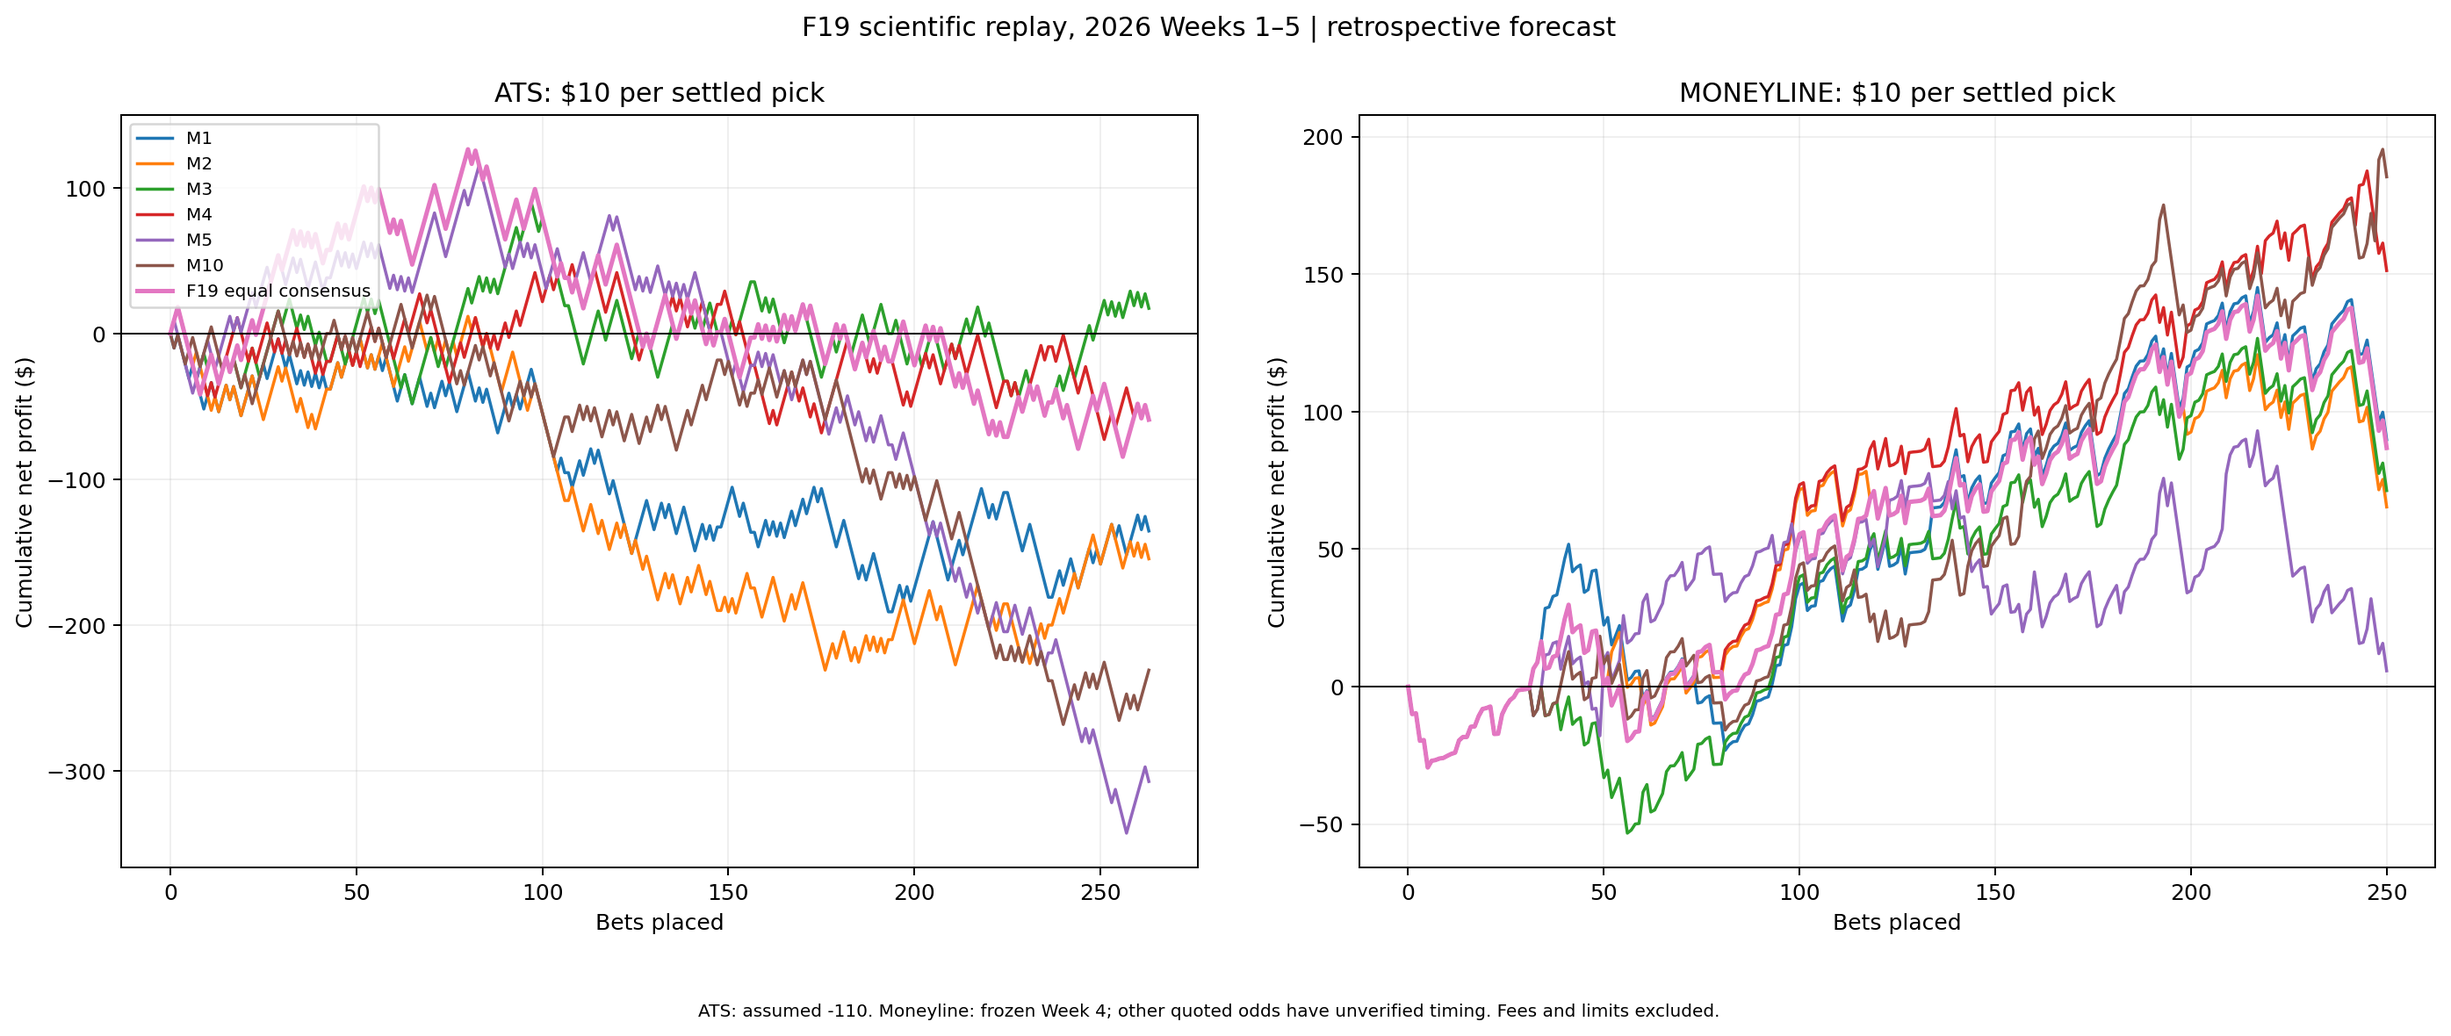
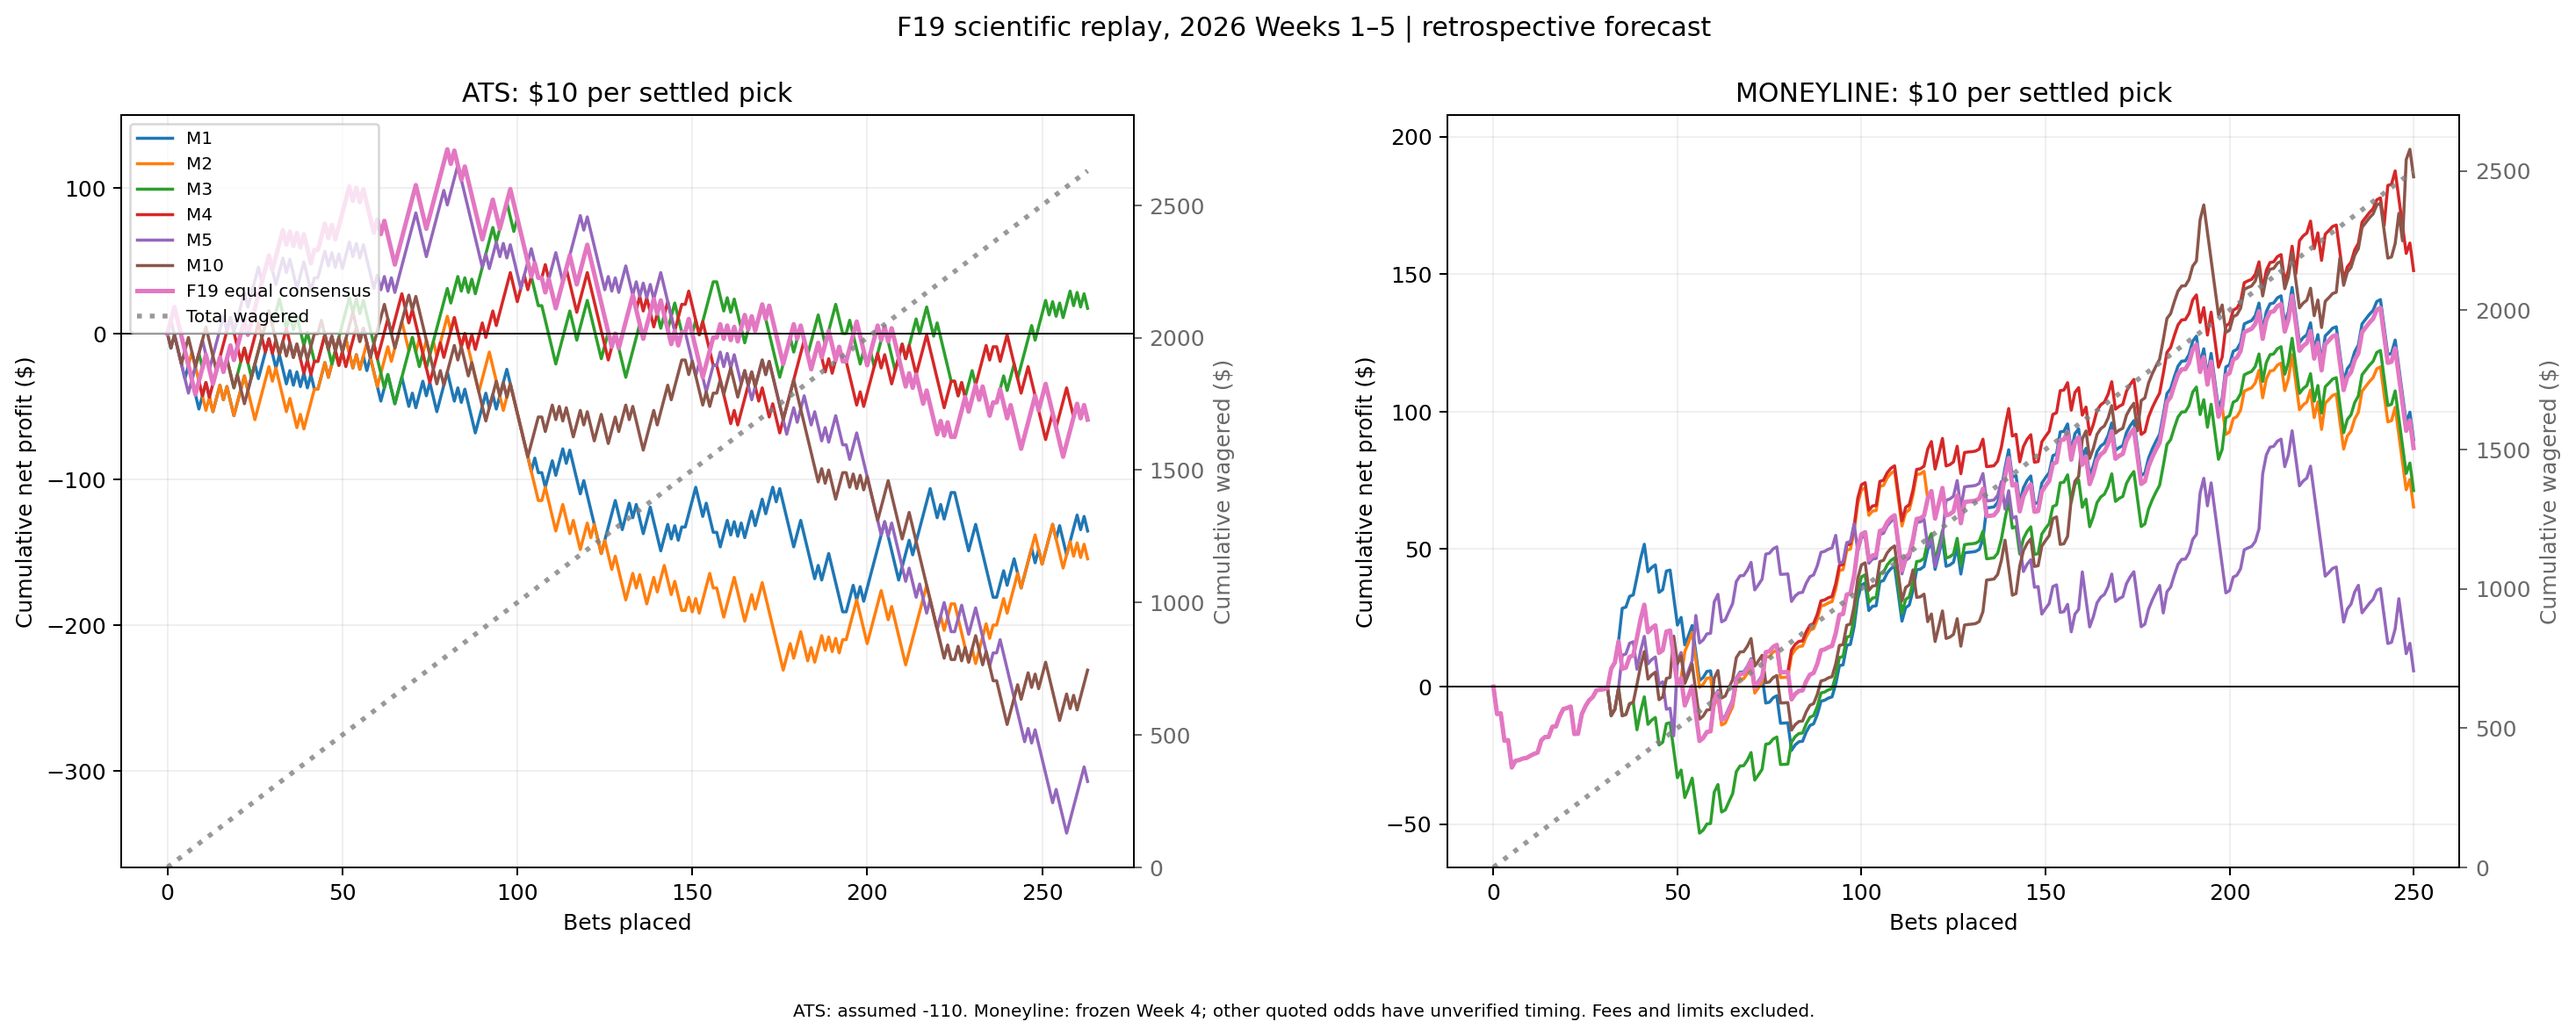
Show cumulative wagered on F19 bankroll figure

diff --git a/scripts/publication/build_2026_f19_flat_stake_study.py b/scripts/publication/build_2026_f19_flat_stake_study.py
@@ -216,8 +216,8 @@ def summarize(frame: pd.DataFrame, by_week: bool = False) -> pd.DataFrame:
 
 
 def plot_bankroll(frame: pd.DataFrame, path: Path) -> None:
-    fig, axes = plt.subplots(1, 2, figsize=(16, 7))
-    fig.subplots_adjust(left=0.07, right=0.985, top=0.87, bottom=0.19, wspace=0.15)
+    fig, axes = plt.subplots(1, 2, figsize=(17, 7))
+    fig.subplots_adjust(left=0.06, right=0.93, top=0.87, bottom=0.19, wspace=0.31)
     colors = plt.get_cmap("tab10").colors
     for axis, (market, scenario) in zip(axes, [("ATS", "all_eligible"), ("moneyline", "quoted_odds")]):
         subset = frame.loc[(frame.market == market) & (frame.scenario == scenario)]
@@ -229,7 +229,22 @@ def plot_bankroll(frame: pd.DataFrame, path: Path) -> None:
         axis.set(title=f"{market.upper()}: $10 per settled pick", xlabel="Bets placed",
                  ylabel="Cumulative net profit ($)")
         axis.grid(alpha=0.2)
-    axes[0].legend(loc="upper left", fontsize=8)
+        # Every strategy stakes the same $10 on the same number of eligible games.
+        # Use a separate scale so cumulative stakes do not compress profit curves.
+        stake_path = subset.loc[subset.strategy.eq(STRATEGIES[0]) & subset.bet_placed]
+        stake_axis = axis.twinx()
+        stake_line, = stake_axis.plot(
+            np.arange(len(stake_path) + 1), np.r_[0, stake_path.cumulative_staked_usd],
+            color="grey", linestyle=":", linewidth=2.2, alpha=0.8,
+            label="Total wagered",
+        )
+        stake_axis.set_ylim(0, float(stake_path.cumulative_staked_usd.iloc[-1]) * 1.08)
+        stake_axis.set_ylabel("Cumulative wagered ($)", color="dimgray")
+        stake_axis.tick_params(axis="y", colors="dimgray")
+        if axis is axes[0]:
+            handles, labels = axis.get_legend_handles_labels()
+            axis.legend(handles + [stake_line], labels + ["Total wagered"],
+                        loc="upper left", fontsize=8)
     fig.suptitle("F19 scientific replay, 2026 Weeks 1–5 | retrospective forecast", y=0.96)
     fig.text(0.5, 0.055, "ATS: assumed -110. Moneyline: frozen Week 4; other quoted odds have unverified timing. Fees and limits excluded.",
              ha="center", fontsize=8)
@@ -295,7 +310,9 @@ def main() -> None:
               "and their reasons, price source, side, outcome, stake, and cumulative results.",
               "- `summary.csv`: strategy totals with win/loss/push and ROI.",
               "- `weekly.csv`: weekly totals and cumulative bankroll from an initial $1,000.",
-              "- `cumulative_net_profit.png`: ATS and broad quoted-moneyline paths.",
+              "- `cumulative_net_profit.png`: ATS and broad quoted-moneyline profit paths "
+              "(left axes) plus the grey dotted cumulative amount wagered per strategy "
+              "(right axes). All seven strategies stake the same total within each panel.",
               "- `manifest.json`: source and output SHA-256 hashes.", ""]
     (OUTPUT / "README.md").write_text("\n".join(lines))
     source_paths = [MODEL, CONSENSUS, MARKET, RAW_ODDS, FROZEN_ODDS, SOURCE_MANIFEST, Path(__file__)]

diff --git a/publication/2026/week_05/post_game/scientific/current_season_f0_f19/f19_flat_stake_betting/README.md b/publication/2026/week_05/post_game/scientific/current_season_f0_f19/f19_flat_stake_betting/README.md
@@ -30,5 +30,5 @@ The Week 4 subset contains 56 bets per strategy. Cumulative curves show net prof
 - `bet_ledger.csv`: every target game × strategy × scenario, including skipped bets and their reasons, price source, side, outcome, stake, and cumulative results.
 - `summary.csv`: strategy totals with win/loss/push and ROI.
 - `weekly.csv`: weekly totals and cumulative bankroll from an initial $1,000.
-- `cumulative_net_profit.png`: ATS and broad quoted-moneyline paths.
+- `cumulative_net_profit.png`: ATS and broad quoted-moneyline profit paths (left axes) plus the grey dotted cumulative amount wagered per strategy (right axes). All seven strategies stake the same total within each panel.
 - `manifest.json`: source and output SHA-256 hashes.
